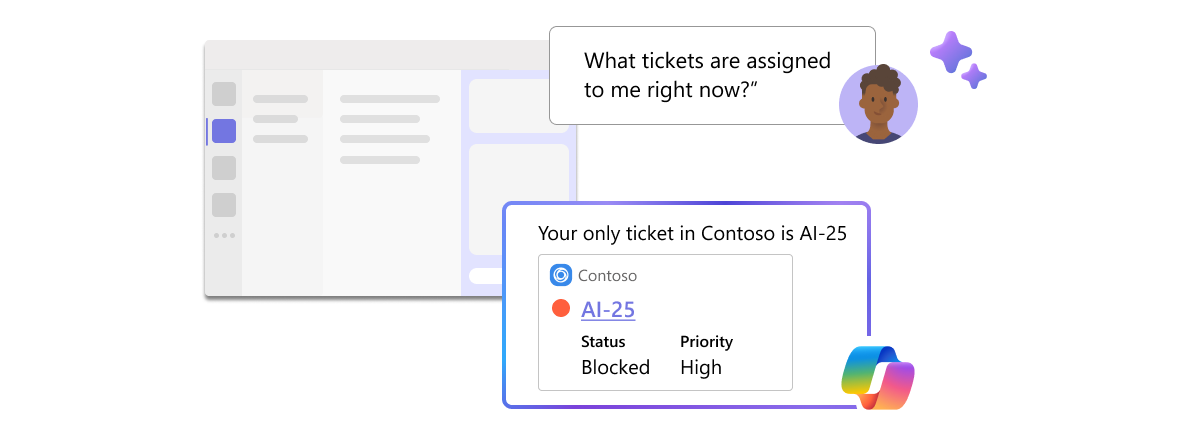
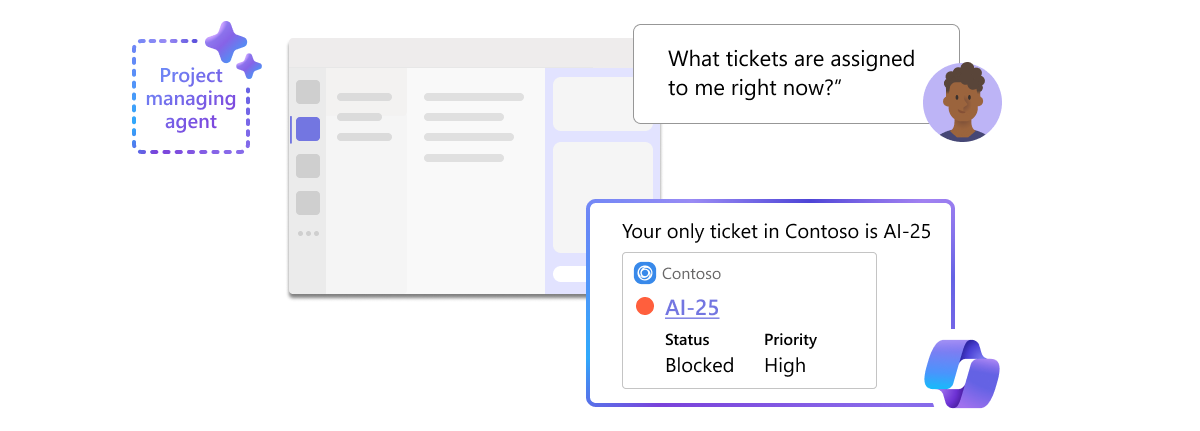
Add more info on agents

diff --git a/docs/index.md b/docs/index.md
@@ -4,7 +4,7 @@ description: Extend, enrich, and customize Microsoft 365 Copilot with external s
 author: girliemac
 ms.author: timura
 ms.topic: overview
-ms.date: 09/16/2024
+ms.date: 10/08/2024
 ms.custom: [copilot-learning-hub]
 ---
 
@@ -28,9 +28,35 @@ Additionally, IT Admins can configure appropriate Copilot connectors in [Microso
 
 :::image type="content" source="assets/images/skills-knowledge-chart.png" alt-text="Chart with organizational 'Knowledge' as the x-axis and user 'Skills' as the y-axis" border="false" lightbox="assets/images/skills-knowledge-chart.png":::
 
+## What are agents?
+
+In essence, agents are a scoped version of Copilot. They are designed to automate and execute specific business processes on your behalf. Each agent is an expert in one or two specific tasks, such as retrieving information, summarizing data, and even taking actions like sending emails or updating records. Agents can be customized to meet specific business needs, such as:
+
+- Human Resources agent
+- Analytics agent
+- Project management agent
+- Legal agent
+- Image creation agent
+
+Here are some practical examples of what you can develop for your organization:
+
+- **Project management agent for engineering team**
+
+    Take, for example, an engineering team that relies on project management software. You can build an agent that enables users to monitor open tickets. For instance, a user can request information on all issues assigned to them, and your agent can seamlessly retrieve and present this data from your API.
+
+- **Product inventory agent for E-commerce**
+
+    If your business operates in the realm of commerce, you can build an internal inventory agent by connecting it to your product database. For example, a user can ask Copilot to verify the availability of specific items, streamlining your internal processes.
+
+- **Image creation agent for marketing campaign**
+
+   If you need images for your marketing, you can create an agent that assists in developing marketing assets specifically tailored to your campaign.
+
+:::image type="content" source="assets/images/personas-extend-copilot.png" border="false" alt-text="Persona 1 - I am a developer, who manages the product database at an e-commerce company, and I want to build an inventory catalog agent that brings the product information for internal org. Persona 2 - I am a marketing manager, who aims to launch a new campaign for my products. And I want a tool that helps developing marketing assets tailored to the campaign." lightbox="assets/images/personas-extend-copilot.png":::
+
 ## Types of agents
 
-Copilot agents can be built via a declarative or custom engine approach.
+Copilot agents can be built using either a declarative or custom engine approach. While the difference may not be noticeable to end-users, the development methods are distinct, giving you, as a developer, the flexibility to choose how you want to build them.
 
 **Declarative agents** are essentially a collection of *custom knowledge* (via instructions and grounding data), and *custom skills* (including Actions, Triggers, and Workflows) hosted on top of Copilot orchestrator and foundation models powering a conversational experience. These agents can be integrated within Microsoft 365 and can utilize Copilot connectors to light up advanced functionality.
 
@@ -111,28 +137,6 @@ When you build Copilot agents, you can tailor the user experience by providing *
 To build **in-context experiences**, you can use plugins and declarative agents. *In-context* experiences bring additional information to the chat experience with Microsoft 365 Copilot, allowing it to reason over and provide responses in the context of the conversation. This also enables Microsoft 365 Copilot to interact with external systems. 
 
 To build an **immersive experience**, you use declarative agents. When a user activates a Copilot agent with an *immersive* experience, the conversation is a 1:1 interaction with the agent, tailored to its capabilities and scope.
-
-## Extend Copilot for your scenario
-
-Copilot extensibility helps your collaborative workspace to be more productive by bringing key information, common tools, and trusted processes to where people increasingly gather, learn, and work. Create something brand new for Copilot or integrate an existing app.
-
-Here are some practical examples of what you can develop for your organization:
-
-- **Issue tracking for engineering team**
-
-    Take, for example, an engineering team that relies on project management software. You can build an agent that enables users to monitor open tickets. For instance, a user can request information on all issues assigned to them, and Microsoft 365 Copilot can seamlessly retrieve and present this data from your plugin.
-
-:::image type="content" source="assets/images/copilot-scenario-01.png" alt-text="This illustration shows an agent scenario where an engineer asks to show all open tickets for him" border="false":::
-
-- **Product inventory for E-commerce**
-
-    If your business operates in the realm of commerce, you can build an internal inventory agent by connecting it to your product database. For example, a user can ask Copilot to verify the availability of specific items, streamlining your internal processes.
-
-- **Enterprise knowledge sharing**
-
-    Consider a multinational corporation with a wealth of knowledge and insights stored in various formats, including documents, emails, and chat transcripts, that are spread across multiple systems. Microsoft Graph connectors can facilitate the consolidation of this data, making it searchable from a single, unified interface. This ensures that your organization's collective wisdom is readily accessible.
-
-:::image type="content" source="assets/images/personas-extend-copilot.png" border="false" alt-text="Persona 1 - I am a developer, who manages the product database at an e-commerce company, and I want to build an inventory catalog agent that brings the product information for internal org. Persona 2 - I am a marketing manager, who aims to launch a new campaign for my products. And I want a tool that helps developing marketing assets tailored to the campaign." lightbox="assets/images/personas-extend-copilot.png":::
 
 ## Next step
 
